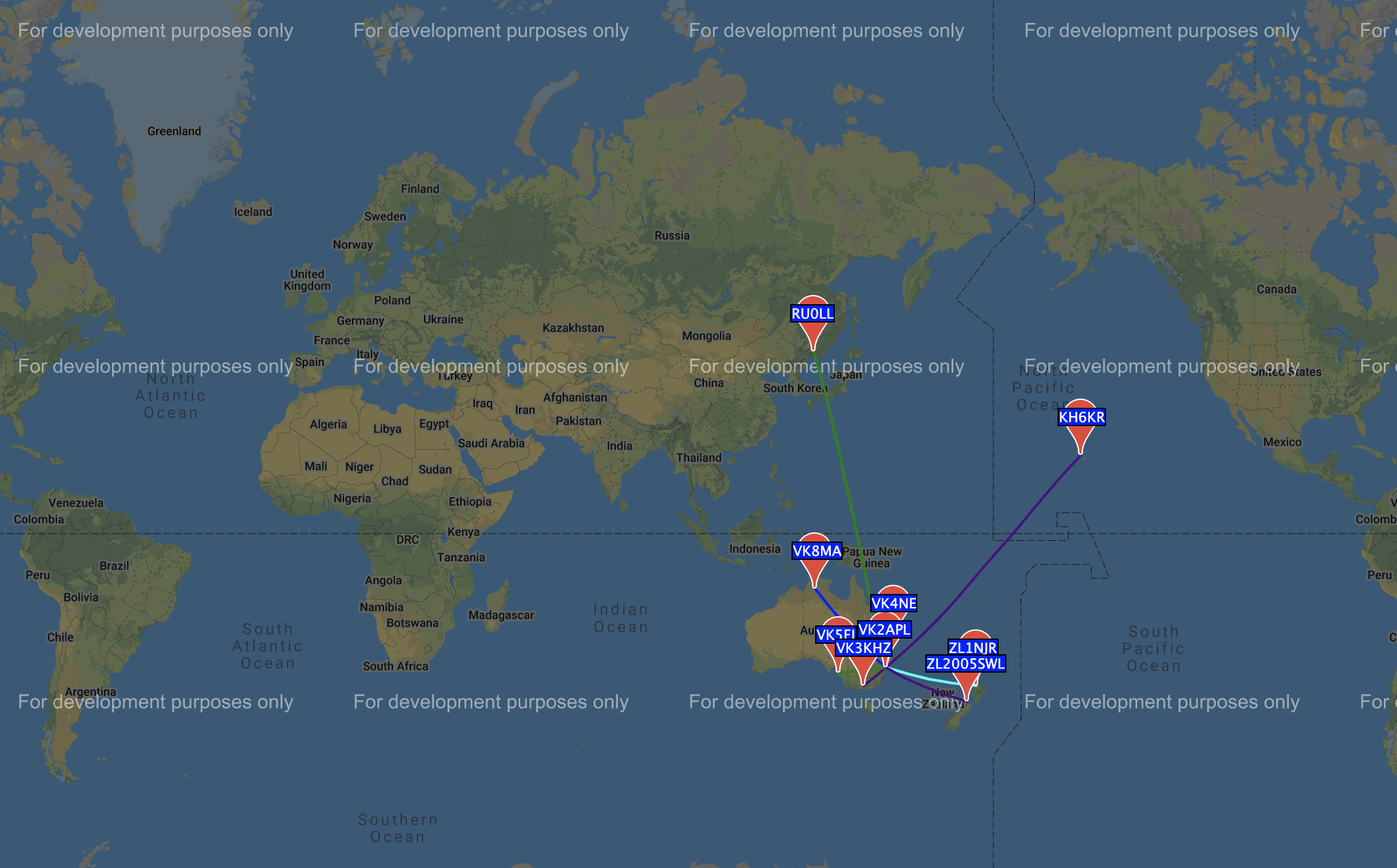
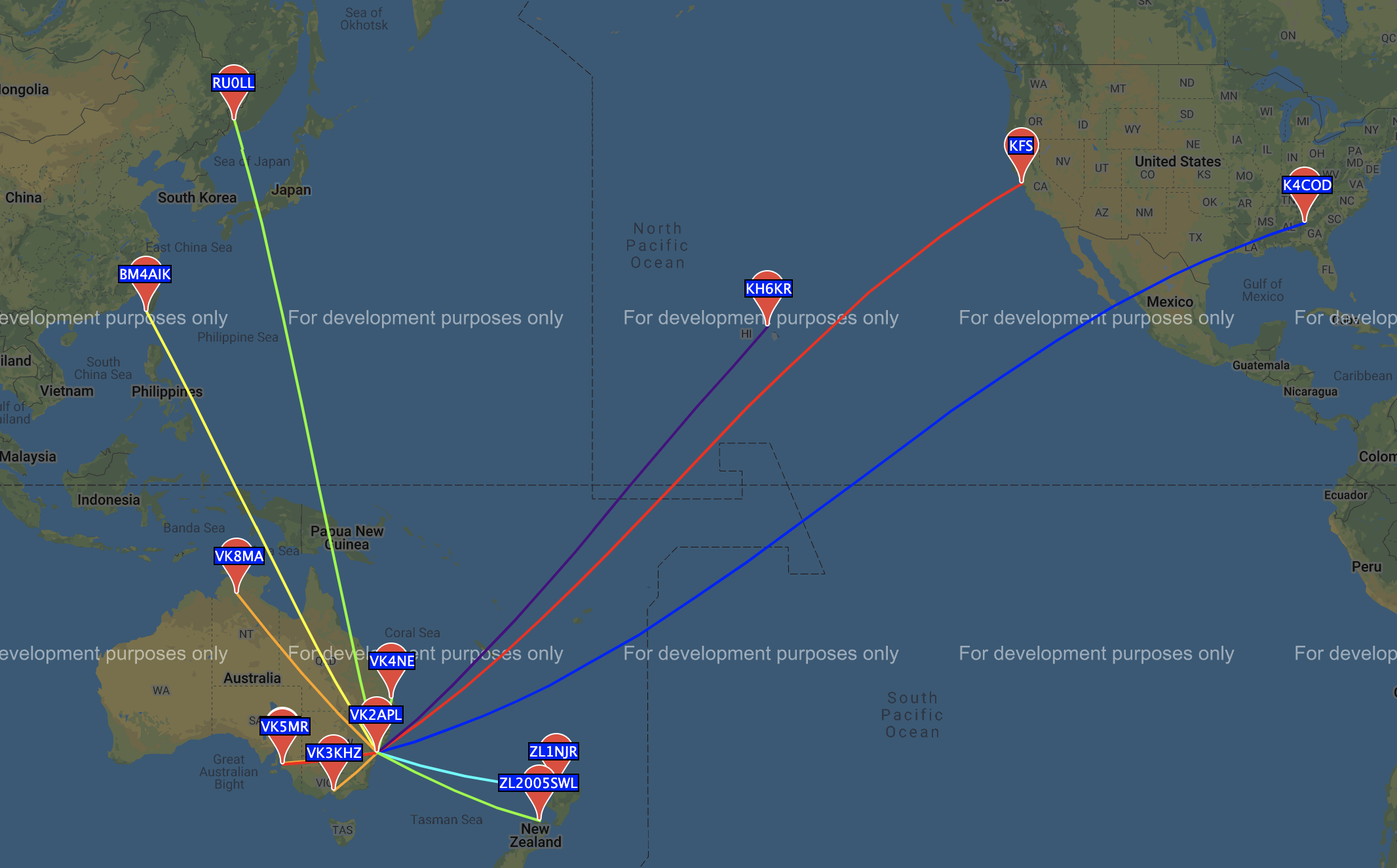
wspr post update

diff --git a/_site/assets/js/lunr/lunr-store.js b/_site/assets/js/lunr/lunr-store.js
@@ -580,7 +580,7 @@ var store = [{
         "url": "http://localhost:4000/2018/installing-powerpoles/",
         "teaser":"https://powerwerx.azureedge.net/asset/image/assembly/PPpairOKN.jpg"},{
         "title": "WSJT-X with improved antenna",
-        "excerpt":"26 May 2018                               Improving the antenna from http://phwl.org/2018/configuring-wsjt-x-on-ubuntu-for-an-icom-ic-7200/ (it now goes down to the fence and up the tree), I can get to Western Australia, New Zealand, Canada and the US using WSPR with only 5 W.     Timestamp\tCall\tMHz\tSNR\tDrift\tGrid\tPwr\tReporter\tRGrid\tkm\taz  2018-05-25 10:20 \t VK2APL \t 7.040019 \t -24 \t 0 \t QF56 \t 5 \t KC2STA1 \t FN22vx \t 15985 \t 61  2018-05-25 10:20 \t VK2APL \t 7.040008 \t -19 \t 0 \t QF56 \t 5 \t N1MCY \t FN20fc \t 15859 \t 66  2018-05-25 10:12 \t VK2APL \t 7.040010 \t -25 \t 0 \t QF56 \t 5 \t N2HQI \t FN13sa \t 15802 \t 61  2018-05-25 10:12 \t VK2APL \t 7.039988 \t -27 \t 0 \t QF56 \t 5 \t KB3EDF \t FM18rh \t 15751 \t 69  2018-05-25 10:12 \t VK2APL \t 7.040005 \t -27 \t 0 \t QF56 \t 5 \t W3GXT \t FM19ol \t 15746 \t 67  2018-05-25 10:12 \t VK2APL \t 7.040002 \t -27 \t 0 \t QF56 \t 5 \t KK4MBI \t FM18kv \t 15710 \t 68  2018-05-25 10:20 \t VK2APL \t 7.039999 \t -28 \t 0 \t QF56 \t 5 \t K9AN \t EN50wc \t 14801 \t 64  2018-05-25 10:12 \t VK2APL \t 7.040000 \t -28 \t 0 \t QF56 \t 5 \t N8AUM \t EM70em \t 14737 \t 77  2018-05-25 10:20 \t VK2APL \t 7.040005 \t -24 \t 0 \t QF56 \t 5 \t KD6RF \t EM22lr \t 13979 \t 71  2018-05-25 10:20 \t VK2APL \t 7.040006 \t -22 \t 0 \t QF56 \t 5 \t N5CEY \t EL16gc \t 13479 \t 78  2018-05-25 10:20 \t VK2APL \t 7.040001 \t -25 \t 0 \t QF56 \t 5 \t AC0ZG \t DN70km \t 13426 \t 59  2018-05-25 10:12 \t VK2APL \t 7.040010 \t -24 \t 0 \t QF56 \t 5 \t KF7VLT \t DN40 \t 12958 \t 57  2018-05-25 10:12 \t VK2APL \t 7.040001 \t -20 \t 0 \t QF56 \t 5 \t W7OWO \t CN85lh \t 12297 \t 49  2018-05-25 10:12 \t VK2APL \t 7.040016 \t -25 \t 0 \t QF56 \t 5 \t KF6I \t DM13bv \t 12097 \t 61  2018-05-25 10:20 \t VK2APL \t 7.040011 \t -22 \t 0 \t QF56 \t 5 \t VK6CQ \t OF78wa \t 3270 \t 263  2018-05-25 10:12 \t VK2APL \t 7.040020 \t -2 \t 0 \t QF56 \t 5 \t VK5MR \t PF89kk \t 1366 \t 280  2018-05-25 10:12 \t VK2APL \t 7.040008 \t -12 \t 0 \t QF56 \t 5 \t VK7KPC \t QE38ok \t 953 \t 199  2018-05-25 10:12 \t VK2APL \t 7.040102 \t -4 \t 0 \t QF56 \t 5 \t VK7JJ \t QE38lr \t 931 \t 201  2018-05-25 10:12 \t VK2APL \t 7.040001 \t -12 \t -1 \t QF56 \t 5 \t VK3PYE \t QF21 \t 774 \t 222  2018-05-25 10:12 \t VK2APL \t 7.040000 \t -3 \t 0 \t QF56 \t 5 \t VK3MHY \t QF22ma \t 728 \t 225  2018-05-25 10:12 \t VK2APL \t 7.039998 \t -10 \t 0 \t QF56 \t 5 \t VK3MI \t QF22ne \t 711 \t 226  2018-05-25 10:12 \t VK2APL \t 7.040001 \t -13 \t 0 \t QF56 \t 5 \t VK4ZBV \t QG62ml \t 696 \t 17  2018-05-25 11:32 \t VK2APL \t 7.039999 \t -19 \t 0 \t QF56 \t 5 \t VK4AAN \t QG61ah \t 547 \t 11  2018-05-25 10:20 \t VK2APL \t 7.040000 \t -22 \t 0 \t QF56 \t 5 \t VK2COW \t QF44ox \t 232 \t 223   Then I made my first decent FT8 contact with K8VFV in Michigan USA today using 40 W, followed by VK2PMG (Lismore Heights, NSW), YV2TTM (Central Java, Indonesia), JA4VLK (Japan) and UA0FO (Asiatic Russia) at 50 W. This guide is mandatory reading for beginners http://www.physics.princeton.edu/pulsar/K1JT/FT8_Operating_Tips.pdf.                                Update 8 Jan 2021   By hanging the wire antenna in a better position and using 50W, I managed to hit Europe on 40m for the first time.                                Date                   Call        Frequency     SNR     Drift   Grid        POWER dBm W         REPORTED by loc       km         mi        Mode   2021-01-03 08:10      VK2APL      7.040099      -11      0      QF56of      +37      5.012      EA8BFK    IL38bo      18486      11487     WSPR-2   2021-01-03 07:56      VK2APL      7.040099      -15      0      QF56of      +37      5.012      EA8BFK    IL38bo      18486      11487     WSPR-2   2021-01-08 07:58      VK2APL      7.040097      -11      0      QF56of      +47      50.119     EA8BFK    IL38bo      18486      11487     WSPR-2   2021-01-08 07:58      VK2APL      7.040099      -15      0      QF56of      +47      50.119     OE9GHV    JN47wk      16462      10229     WSPR-2   2021-01-08 07:58      VK2APL      7.040099      -21      0      QF56of      +47      50.119     IW2NKE    JN63np      16260      10103     WSPR-2   2021-01-08 07:58      VK2APL      7.040099      -11      0      QF56of      +47      50.119     K5XL      EM12kp      13781      8563      WSPR-2   2021-01-08 07:50      VK2APL      7.040177      -19      0      QF56of      +47      50.119     VE6JY     DO33or      13340      8289      WSPR-2   2021-01-08 07:58      VK2APL      7.040178      -10      0      QF56of      +47      50.119     VE6JY     DO33or      13340      8289      WSPR-2   2021-01-03 07:52      VK2APL      7.040101      -22      0      QF56of      +37      5.012      VE6EGN    DO23qe      13206      8206      WSPR-2   2021-01-03 08:10      VK2APL      7.040099      -5       0      QF56of      +37      5.012      VE6ARS    DO30eb      13156      8175      WSPR-2   2021-01-03 06:24      VK2APL      7.040098      -19      0      QF56        +37      5.012      KA7OEI-1  DN31uo      12910      8022      WSPR-2   2021-01-03 07:52      VK2APL      7.040098      -8       0      QF56of      +37      5.012      KA7OEI-1  DN31uo      12906      8019      WSPR-2   2021-01-03 08:10      VK2APL      7.040099      -13      0      QF56of      +37      5.012      KA7OEI-1  DN31uo      12906      8019      WSPR-2   2021-01-08 07:58      VK2APL      7.040099      -9       0      QF56of      +47      50.119     KA7OEI-1  DN31uo      12906      8019      WSPR-2   2021-01-03 07:56      VK2APL      7.040098      -11      0      QF56of      +37      5.012      KA7OEI-1  DN31uo      12906      8019      WSPR-2   2021-01-08 07:42      VK2APL      7.040099      -9       0      QF56of      +47      50.119     KA7OEI-1  DN31uo      12906      8019      WSPR-2   2021-01-08 07:50      VK2APL      7.040101      -11      0      QF56of      +47      50.119     AA0JR     DM33wi      12534      7788      WSPR-2   2021-01-08 07:58      VK2APL      7.040101      -12      0      QF56of      +47      50.119     AA0JR     DM33wi      12534      7788      WSPR-2   2021-01-08 07:58      VK2APL      7.040099      -13      0      QF56of      +47      50.119     N6RY      DM33sp      12521      7780      WSPR-2   2021-01-03 06:46      VK2APL      7.040083      -22      0      QF56of      +37      5.012      KI7E      CN87wr      12483      7757      WSPR-2   2021-01-03 06:42      VK2APL      7.040099      -22      0      QF56of      +37      5.012      KK6PR     CN94ik      12376      7690      WSPR-2   2021-01-08 07:58      VK2APL      7.040097      -12      0      QF56of      +47      50.119     KK6PR     CN94ik      12376      7690      WSPR-2   2021-01-03 07:56      VK2APL      7.040099      -14      0      QF56of      +37      5.012      KK6PR     CN94ik      12376      7690      WSPR-2   2021-01-08 07:50      VK2APL      7.040097      -16      0      QF56of      +47      50.119     KK6PR     CN94ik      12376      7690      WSPR-2   2021-01-03 08:10      VK2APL      7.040098      -13      0      QF56of      +37      5.012      KK6PR     CN94ik      12376      7690      WSPR-2   2021-01-03 06:46      VK2APL      7.040097      -22      0      QF56of      +37      5.012      KK6PR     CN94ik      12376      7690      WSPR-2   2021-01-03 07:52      VK2APL      7.040099      -14      0      QF56of      +37      5.012      KK6PR     CN94ik      12376      7690      WSPR-2   2021-01-08 07:42      VK2APL      7.040097      -16      0      QF56of      +47      50.119     KK6PR     CN94ik      12376      7690      WSPR-2   2021-01-08 07:50      VK2APL      7.040087      -13      0      QF56of      +47      50.119     ND7M      DM16xf      12359      7680      WSPR-2   2021-01-08 07:58      VK2APL      7.040087      -12      0      QF56of      +47      50.119     ND7M      DM16xf      12359      7680      WSPR-2   2021-01-03 08:10      VK2APL      7.040099      -11      0      QF56of      +37      5.012      W7OWO     CN85lh      12298      7642      WSPR-2   2021-01-03 07:52      VK2APL      7.040099      -13      0      QF56of      +37      5.012      W7OWO     CN85lh      12298      7642      WSPR-2   2021-01-08 07:42      VK2APL      7.040100      -18      0      QF56of      +47      50.119     KP4MD     CM98iq      12077      7504      WSPR-2   2021-01-08 07:58      VK2APL      7.040101      -18      0      QF56of      +47      50.119     KP4MD     CM98iq      12077      7504      WSPR-2   2021-01-08 07:50      VK2APL      7.040100      -19      0      QF56of      +47      50.119     KP4MD     CM98iq      12077      7504      WSPR-2   2021-01-03 07:56      VK2APL      7.040098      -17      0      QF56of      +37      5.012      KP4MD     CM98iq      12077      7504      WSPR-2   2021-01-03 08:10      VK2APL      7.040098      -20      0      QF56of      +37      5.012      KJ6WSM    CM98hs      12075      7503      WSPR-2   2021-01-03 07:56      VK2APL      7.040098      -23      0      QF56of      +37      5.012      KJ6WSM    CM98hs      12075      7503      WSPR-2   2021-01-08 07:50      VK2APL      7.040106      -14      0      QF56of      +47      50.119     W6UV      CM87wx      11975      7441      WSPR-2   2021-01-08 07:58      VK2APL      7.040106      -13      0      QF56of      +47      50.119     W6UV      CM87wx      11975      7441      WSPR-2   2021-01-03 07:56      VK2APL      7.040098      -16      0      QF56of      +37      5.012      WB7ABP    CM88ok      11950      7425      WSPR-2   2021-01-08 07:58      VK2APL      7.040100      -23      0      QF56of      +47      50.119     WB7ABP    CM88ok      11950      7425      WSPR-2   2021-01-08 07:50      VK2APL      7.040100      -23      0      QF56of      +47      50.119     WB7ABP    CM88ok      11950      7425      WSPR-2   2021-01-03 08:10      VK2APL      7.040098      -17      0      QF56of      +37      5.012      WB7ABP    CM88ok      11950      7425      WSPR-2   2021-01-08 07:42      VK2APL      7.040096      -18      0      QF56of      +47      50.119     KJ6MKI    CM88oi      11945      7422      WSPR-2   2021-01-08 07:50      VK2APL      7.040097      -17      0      QF56of      +47      50.119     KJ6MKI    CM88oi      11945      7422      WSPR-2   2021-01-08 07:58      VK2APL      7.040097      -16      0      QF56of      +47      50.119     KJ6MKI    CM88oi      11945      7422      WSPR-2   2021-01-03 08:10      VK2APL      7.040098      -14      0      QF56of      +37      5.012      KJ6MKI    CM88oi      11945      7422      WSPR-2   2021-01-03 07:56      VK2APL      7.040098      -12      0      QF56of      +37      5.012      KJ6MKI    CM88oi      11945      7422      WSPR-2   2021-01-03 07:52      VK2APL      7.040098      -12      0      QF56of      +37      5.012      KJ6MKI    CM88oi      11945      7422      WSPR-2    Also on 20m: Russia and Hawaii.                                Timestamp              Call        MHz            SNR    Drift  Grid    Pwr    Reporter   RGrid    km    az    Mode   # Spots  2021-01-09 05:04      VK2APL      14.097098      -13    0      QF56of  50     VK3KHZ     QF22pe   697   228   2      1   2021-01-09 05:04      VK2APL      14.097098      -9     0      QF56of  50     ZL2005SWL  RE68mx   2083  119   2      1   2021-01-09 05:04      VK2APL      14.097098      +3     0      QF56of  50     VK4NE      QG62nj   710   15    2      1   2021-01-09 05:04      VK2APL      14.097067      -10    0      QF56of  50     VK5EI      PF95gd   1169  261   2      1   2021-01-09 05:04      VK2APL      14.097066      -17    0      QF56of  50     KH6KR      BL10ts   8220  50    2      1   2021-01-09 05:04      VK2APL      14.097101      +4     1      QF56of  50     ZL1NJR     RF72pg   2211  108   2      1   2021-01-09 05:04      VK2APL      14.097108      -19    0      QF56of  50     RU0LL      PN53xt   8845  346   2      1   2021-01-09 05:04      VK2APL      14.097117      -15    0      QF56of  50     VK8MA      PH65dm   2868  314   2      1   ","categories": ["radio"],
+        "excerpt":"26 May 2018                               Improving the antenna from http://phwl.org/2018/configuring-wsjt-x-on-ubuntu-for-an-icom-ic-7200/ (it now goes down to the fence and up the tree), I can get to Western Australia, New Zealand, Canada and the US using WSPR with only 5 W.     Timestamp\tCall\tMHz\tSNR\tDrift\tGrid\tPwr\tReporter\tRGrid\tkm\taz  2018-05-25 10:20 \t VK2APL \t 7.040019 \t -24 \t 0 \t QF56 \t 5 \t KC2STA1 \t FN22vx \t 15985 \t 61  2018-05-25 10:20 \t VK2APL \t 7.040008 \t -19 \t 0 \t QF56 \t 5 \t N1MCY \t FN20fc \t 15859 \t 66  2018-05-25 10:12 \t VK2APL \t 7.040010 \t -25 \t 0 \t QF56 \t 5 \t N2HQI \t FN13sa \t 15802 \t 61  2018-05-25 10:12 \t VK2APL \t 7.039988 \t -27 \t 0 \t QF56 \t 5 \t KB3EDF \t FM18rh \t 15751 \t 69  2018-05-25 10:12 \t VK2APL \t 7.040005 \t -27 \t 0 \t QF56 \t 5 \t W3GXT \t FM19ol \t 15746 \t 67  2018-05-25 10:12 \t VK2APL \t 7.040002 \t -27 \t 0 \t QF56 \t 5 \t KK4MBI \t FM18kv \t 15710 \t 68  2018-05-25 10:20 \t VK2APL \t 7.039999 \t -28 \t 0 \t QF56 \t 5 \t K9AN \t EN50wc \t 14801 \t 64  2018-05-25 10:12 \t VK2APL \t 7.040000 \t -28 \t 0 \t QF56 \t 5 \t N8AUM \t EM70em \t 14737 \t 77  2018-05-25 10:20 \t VK2APL \t 7.040005 \t -24 \t 0 \t QF56 \t 5 \t KD6RF \t EM22lr \t 13979 \t 71  2018-05-25 10:20 \t VK2APL \t 7.040006 \t -22 \t 0 \t QF56 \t 5 \t N5CEY \t EL16gc \t 13479 \t 78  2018-05-25 10:20 \t VK2APL \t 7.040001 \t -25 \t 0 \t QF56 \t 5 \t AC0ZG \t DN70km \t 13426 \t 59  2018-05-25 10:12 \t VK2APL \t 7.040010 \t -24 \t 0 \t QF56 \t 5 \t KF7VLT \t DN40 \t 12958 \t 57  2018-05-25 10:12 \t VK2APL \t 7.040001 \t -20 \t 0 \t QF56 \t 5 \t W7OWO \t CN85lh \t 12297 \t 49  2018-05-25 10:12 \t VK2APL \t 7.040016 \t -25 \t 0 \t QF56 \t 5 \t KF6I \t DM13bv \t 12097 \t 61  2018-05-25 10:20 \t VK2APL \t 7.040011 \t -22 \t 0 \t QF56 \t 5 \t VK6CQ \t OF78wa \t 3270 \t 263  2018-05-25 10:12 \t VK2APL \t 7.040020 \t -2 \t 0 \t QF56 \t 5 \t VK5MR \t PF89kk \t 1366 \t 280  2018-05-25 10:12 \t VK2APL \t 7.040008 \t -12 \t 0 \t QF56 \t 5 \t VK7KPC \t QE38ok \t 953 \t 199  2018-05-25 10:12 \t VK2APL \t 7.040102 \t -4 \t 0 \t QF56 \t 5 \t VK7JJ \t QE38lr \t 931 \t 201  2018-05-25 10:12 \t VK2APL \t 7.040001 \t -12 \t -1 \t QF56 \t 5 \t VK3PYE \t QF21 \t 774 \t 222  2018-05-25 10:12 \t VK2APL \t 7.040000 \t -3 \t 0 \t QF56 \t 5 \t VK3MHY \t QF22ma \t 728 \t 225  2018-05-25 10:12 \t VK2APL \t 7.039998 \t -10 \t 0 \t QF56 \t 5 \t VK3MI \t QF22ne \t 711 \t 226  2018-05-25 10:12 \t VK2APL \t 7.040001 \t -13 \t 0 \t QF56 \t 5 \t VK4ZBV \t QG62ml \t 696 \t 17  2018-05-25 11:32 \t VK2APL \t 7.039999 \t -19 \t 0 \t QF56 \t 5 \t VK4AAN \t QG61ah \t 547 \t 11  2018-05-25 10:20 \t VK2APL \t 7.040000 \t -22 \t 0 \t QF56 \t 5 \t VK2COW \t QF44ox \t 232 \t 223   Then I made my first decent FT8 contact with K8VFV in Michigan USA today using 40 W, followed by VK2PMG (Lismore Heights, NSW), YV2TTM (Central Java, Indonesia), JA4VLK (Japan) and UA0FO (Asiatic Russia) at 50 W. This guide is mandatory reading for beginners http://www.physics.princeton.edu/pulsar/K1JT/FT8_Operating_Tips.pdf.                                Update 8 Jan 2021   By hanging the wire antenna in a better position and using 50W, I managed to hit Europe on 40m for the first time.                                Date                   Call        Frequency     SNR     Drift   Grid        POWER dBm W         REPORTED by loc       km         mi        Mode   2021-01-03 08:10      VK2APL      7.040099      -11      0      QF56of      +37      5.012      EA8BFK    IL38bo      18486      11487     WSPR-2   2021-01-03 07:56      VK2APL      7.040099      -15      0      QF56of      +37      5.012      EA8BFK    IL38bo      18486      11487     WSPR-2   2021-01-08 07:58      VK2APL      7.040097      -11      0      QF56of      +47      50.119     EA8BFK    IL38bo      18486      11487     WSPR-2   2021-01-08 07:58      VK2APL      7.040099      -15      0      QF56of      +47      50.119     OE9GHV    JN47wk      16462      10229     WSPR-2   2021-01-08 07:58      VK2APL      7.040099      -21      0      QF56of      +47      50.119     IW2NKE    JN63np      16260      10103     WSPR-2   2021-01-08 07:58      VK2APL      7.040099      -11      0      QF56of      +47      50.119     K5XL      EM12kp      13781      8563      WSPR-2   2021-01-08 07:50      VK2APL      7.040177      -19      0      QF56of      +47      50.119     VE6JY     DO33or      13340      8289      WSPR-2   2021-01-08 07:58      VK2APL      7.040178      -10      0      QF56of      +47      50.119     VE6JY     DO33or      13340      8289      WSPR-2   2021-01-03 07:52      VK2APL      7.040101      -22      0      QF56of      +37      5.012      VE6EGN    DO23qe      13206      8206      WSPR-2   2021-01-03 08:10      VK2APL      7.040099      -5       0      QF56of      +37      5.012      VE6ARS    DO30eb      13156      8175      WSPR-2   2021-01-03 06:24      VK2APL      7.040098      -19      0      QF56        +37      5.012      KA7OEI-1  DN31uo      12910      8022      WSPR-2   2021-01-03 07:52      VK2APL      7.040098      -8       0      QF56of      +37      5.012      KA7OEI-1  DN31uo      12906      8019      WSPR-2   2021-01-03 08:10      VK2APL      7.040099      -13      0      QF56of      +37      5.012      KA7OEI-1  DN31uo      12906      8019      WSPR-2   2021-01-08 07:58      VK2APL      7.040099      -9       0      QF56of      +47      50.119     KA7OEI-1  DN31uo      12906      8019      WSPR-2   2021-01-03 07:56      VK2APL      7.040098      -11      0      QF56of      +37      5.012      KA7OEI-1  DN31uo      12906      8019      WSPR-2   2021-01-08 07:42      VK2APL      7.040099      -9       0      QF56of      +47      50.119     KA7OEI-1  DN31uo      12906      8019      WSPR-2   2021-01-08 07:50      VK2APL      7.040101      -11      0      QF56of      +47      50.119     AA0JR     DM33wi      12534      7788      WSPR-2   2021-01-08 07:58      VK2APL      7.040101      -12      0      QF56of      +47      50.119     AA0JR     DM33wi      12534      7788      WSPR-2   2021-01-08 07:58      VK2APL      7.040099      -13      0      QF56of      +47      50.119     N6RY      DM33sp      12521      7780      WSPR-2   2021-01-03 06:46      VK2APL      7.040083      -22      0      QF56of      +37      5.012      KI7E      CN87wr      12483      7757      WSPR-2   2021-01-03 06:42      VK2APL      7.040099      -22      0      QF56of      +37      5.012      KK6PR     CN94ik      12376      7690      WSPR-2   2021-01-08 07:58      VK2APL      7.040097      -12      0      QF56of      +47      50.119     KK6PR     CN94ik      12376      7690      WSPR-2   2021-01-03 07:56      VK2APL      7.040099      -14      0      QF56of      +37      5.012      KK6PR     CN94ik      12376      7690      WSPR-2   2021-01-08 07:50      VK2APL      7.040097      -16      0      QF56of      +47      50.119     KK6PR     CN94ik      12376      7690      WSPR-2   2021-01-03 08:10      VK2APL      7.040098      -13      0      QF56of      +37      5.012      KK6PR     CN94ik      12376      7690      WSPR-2   2021-01-03 06:46      VK2APL      7.040097      -22      0      QF56of      +37      5.012      KK6PR     CN94ik      12376      7690      WSPR-2   2021-01-03 07:52      VK2APL      7.040099      -14      0      QF56of      +37      5.012      KK6PR     CN94ik      12376      7690      WSPR-2   2021-01-08 07:42      VK2APL      7.040097      -16      0      QF56of      +47      50.119     KK6PR     CN94ik      12376      7690      WSPR-2   2021-01-08 07:50      VK2APL      7.040087      -13      0      QF56of      +47      50.119     ND7M      DM16xf      12359      7680      WSPR-2   2021-01-08 07:58      VK2APL      7.040087      -12      0      QF56of      +47      50.119     ND7M      DM16xf      12359      7680      WSPR-2   2021-01-03 08:10      VK2APL      7.040099      -11      0      QF56of      +37      5.012      W7OWO     CN85lh      12298      7642      WSPR-2   2021-01-03 07:52      VK2APL      7.040099      -13      0      QF56of      +37      5.012      W7OWO     CN85lh      12298      7642      WSPR-2   2021-01-08 07:42      VK2APL      7.040100      -18      0      QF56of      +47      50.119     KP4MD     CM98iq      12077      7504      WSPR-2   2021-01-08 07:58      VK2APL      7.040101      -18      0      QF56of      +47      50.119     KP4MD     CM98iq      12077      7504      WSPR-2   2021-01-08 07:50      VK2APL      7.040100      -19      0      QF56of      +47      50.119     KP4MD     CM98iq      12077      7504      WSPR-2   2021-01-03 07:56      VK2APL      7.040098      -17      0      QF56of      +37      5.012      KP4MD     CM98iq      12077      7504      WSPR-2   2021-01-03 08:10      VK2APL      7.040098      -20      0      QF56of      +37      5.012      KJ6WSM    CM98hs      12075      7503      WSPR-2   2021-01-03 07:56      VK2APL      7.040098      -23      0      QF56of      +37      5.012      KJ6WSM    CM98hs      12075      7503      WSPR-2   2021-01-08 07:50      VK2APL      7.040106      -14      0      QF56of      +47      50.119     W6UV      CM87wx      11975      7441      WSPR-2   2021-01-08 07:58      VK2APL      7.040106      -13      0      QF56of      +47      50.119     W6UV      CM87wx      11975      7441      WSPR-2   2021-01-03 07:56      VK2APL      7.040098      -16      0      QF56of      +37      5.012      WB7ABP    CM88ok      11950      7425      WSPR-2   2021-01-08 07:58      VK2APL      7.040100      -23      0      QF56of      +47      50.119     WB7ABP    CM88ok      11950      7425      WSPR-2   2021-01-08 07:50      VK2APL      7.040100      -23      0      QF56of      +47      50.119     WB7ABP    CM88ok      11950      7425      WSPR-2   2021-01-03 08:10      VK2APL      7.040098      -17      0      QF56of      +37      5.012      WB7ABP    CM88ok      11950      7425      WSPR-2   2021-01-08 07:42      VK2APL      7.040096      -18      0      QF56of      +47      50.119     KJ6MKI    CM88oi      11945      7422      WSPR-2   2021-01-08 07:50      VK2APL      7.040097      -17      0      QF56of      +47      50.119     KJ6MKI    CM88oi      11945      7422      WSPR-2   2021-01-08 07:58      VK2APL      7.040097      -16      0      QF56of      +47      50.119     KJ6MKI    CM88oi      11945      7422      WSPR-2   2021-01-03 08:10      VK2APL      7.040098      -14      0      QF56of      +37      5.012      KJ6MKI    CM88oi      11945      7422      WSPR-2   2021-01-03 07:56      VK2APL      7.040098      -12      0      QF56of      +37      5.012      KJ6MKI    CM88oi      11945      7422      WSPR-2   2021-01-03 07:52      VK2APL      7.040098      -12      0      QF56of      +37      5.012      KJ6MKI    CM88oi      11945      7422      WSPR-2    Also on 20m: US East and West coast, Taiwan, Russia and Hawaii.                                Timestamp          Call    MHz         SNR      Drift  Grid    Pwr     Reporter  RGrid    km    az      Mode    # Spots  2021-01-09 05:20  VK2APL  14.097112   -18      0      QF56of  50      VK5MR     PF94gw   1170  259     2      1   2021-01-09 05:20  VK2APL  14.097108   -26      1      QF56of  50      BM4AIK    PL02dp   7075  328     2      1   2021-01-09 05:20  VK2APL  14.097096   -26      0      QF56of  50      KFS       CM87tj   11924 56      2      1   2021-01-09 05:20  VK2APL  14.097098   -17      0      QF56of  50      K4COD     EM73sc   14915 75      2      1   2021-01-09 05:04  VK2APL  14.097067   -12      0      QF56of  50      VK5EI     PF95gd   1169  261     2      2   2021-01-09 05:04  VK2APL  14.097066   -16      0      QF56of  50      KH6KR     BL10ts   8220  50      2      2   2021-01-09 05:04  VK2APL  14.097101   +4       1      QF56of  50      ZL1NJR    RF72pg   2211  108     2      2   2021-01-09 05:04  VK2APL  14.097108   -19      0      QF56of  50      RU0LL     PN53xt   8845  346     2      1   2021-01-09 05:04  VK2APL  14.097117   -15      0      QF56of  50      VK8MA     PH65dm   2868  314     2      1   2021-01-09 05:04  VK2APL  14.097098   -18      0      QF56of  50      VK3KHZ    QF22pe   697   228     2      2   2021-01-09 05:04  VK2APL  14.097098   -10      0      QF56of  50      ZL2005SWL RE68mx   2083  119     2      2   2021-01-09 05:04  VK2APL  14.097098   +5       0      QF56of  50      VK4NE     QG62nj   710   15      2      2   ","categories": ["radio"],
         "tags": ["hobbies"],
         "url": "http://localhost:4000/2018/wsjt-x-with-improved-antenna/",
         "teaser":"http://localhost:4000/assets/images/2021/01/wspr-080121.png"},{

diff --git a/_site/2018/wsjt-x-with-improved-antenna/index.html b/_site/2018/wsjt-x-with-improved-antenna/index.html
@@ -300,7 +300,7 @@
  2021-01-03 07:52      VK2APL      7.040098      -12      0      QF56of      +37      5.012      KJ6MKI    CM88oi      11945      7422      WSPR-2 
 </code></pre></div></div>
 
-<p>Also on 20m: Russia and Hawaii.</p>
+<p>Also on 20m: US East and West coast, Taiwan, Russia and Hawaii.</p>
 
 <figure class="">
   <a href="/assets/images/2021/01/wspr-090121.png">
@@ -311,15 +311,19 @@
 
     </figcaption></a></figure>
 
-<div class="language-plaintext highlighter-rouge"><div class="highlight"><pre class="highlight"><code>Timestamp              Call        MHz            SNR    Drift  Grid    Pwr    Reporter   RGrid    km    az    Mode   # Spots
- 2021-01-09 05:04      VK2APL      14.097098      -13    0      QF56of  50     VK3KHZ     QF22pe   697   228   2      1 
- 2021-01-09 05:04      VK2APL      14.097098      -9     0      QF56of  50     ZL2005SWL  RE68mx   2083  119   2      1 
- 2021-01-09 05:04      VK2APL      14.097098      +3     0      QF56of  50     VK4NE      QG62nj   710   15    2      1 
- 2021-01-09 05:04      VK2APL      14.097067      -10    0      QF56of  50     VK5EI      PF95gd   1169  261   2      1 
- 2021-01-09 05:04      VK2APL      14.097066      -17    0      QF56of  50     KH6KR      BL10ts   8220  50    2      1 
- 2021-01-09 05:04      VK2APL      14.097101      +4     1      QF56of  50     ZL1NJR     RF72pg   2211  108   2      1 
- 2021-01-09 05:04      VK2APL      14.097108      -19    0      QF56of  50     RU0LL      PN53xt   8845  346   2      1 
- 2021-01-09 05:04      VK2APL      14.097117      -15    0      QF56of  50     VK8MA      PH65dm   2868  314   2      1 
+<div class="language-plaintext highlighter-rouge"><div class="highlight"><pre class="highlight"><code>Timestamp          Call    MHz         SNR      Drift  Grid    Pwr     Reporter  RGrid    km    az      Mode    # Spots
+ 2021-01-09 05:20  VK2APL  14.097112   -18      0      QF56of  50      VK5MR     PF94gw   1170  259     2      1 
+ 2021-01-09 05:20  VK2APL  14.097108   -26      1      QF56of  50      BM4AIK    PL02dp   7075  328     2      1 
+ 2021-01-09 05:20  VK2APL  14.097096   -26      0      QF56of  50      KFS       CM87tj   11924 56      2      1 
+ 2021-01-09 05:20  VK2APL  14.097098   -17      0      QF56of  50      K4COD     EM73sc   14915 75      2      1 
+ 2021-01-09 05:04  VK2APL  14.097067   -12      0      QF56of  50      VK5EI     PF95gd   1169  261     2      2 
+ 2021-01-09 05:04  VK2APL  14.097066   -16      0      QF56of  50      KH6KR     BL10ts   8220  50      2      2 
+ 2021-01-09 05:04  VK2APL  14.097101   +4       1      QF56of  50      ZL1NJR    RF72pg   2211  108     2      2 
+ 2021-01-09 05:04  VK2APL  14.097108   -19      0      QF56of  50      RU0LL     PN53xt   8845  346     2      1 
+ 2021-01-09 05:04  VK2APL  14.097117   -15      0      QF56of  50      VK8MA     PH65dm   2868  314     2      1 
+ 2021-01-09 05:04  VK2APL  14.097098   -18      0      QF56of  50      VK3KHZ    QF22pe   697   228     2      2 
+ 2021-01-09 05:04  VK2APL  14.097098   -10      0      QF56of  50      ZL2005SWL RE68mx   2083  119     2      2 
+ 2021-01-09 05:04  VK2APL  14.097098   +5       0      QF56of  50      VK4NE     QG62nj   710   15      2      2 
 </code></pre></div></div>
 
         
